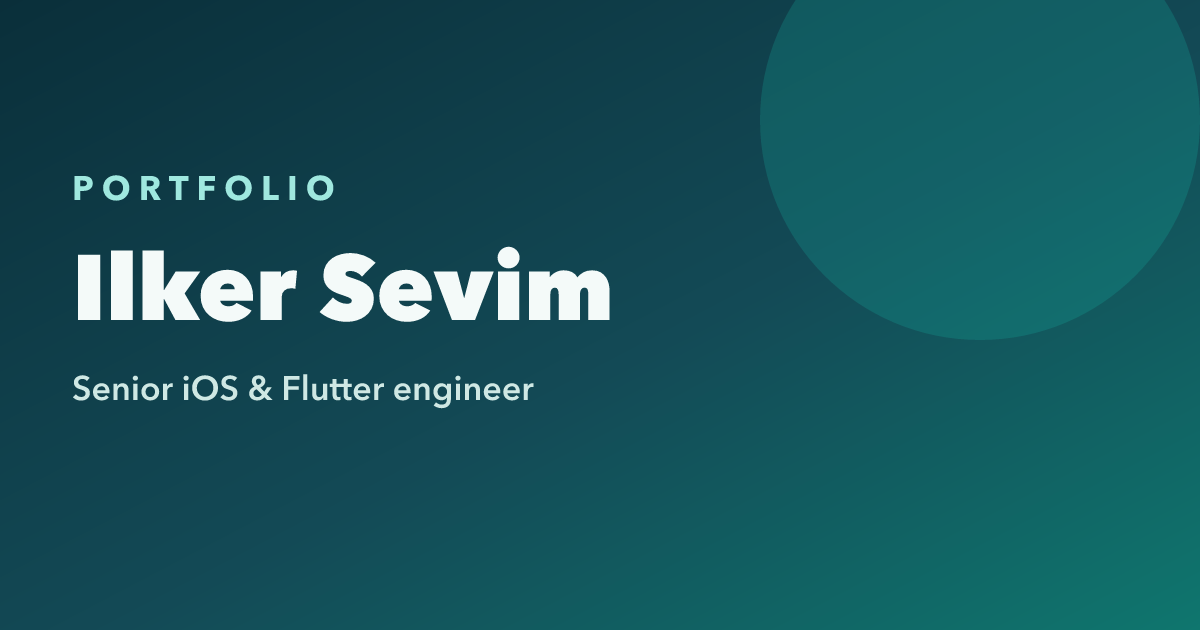
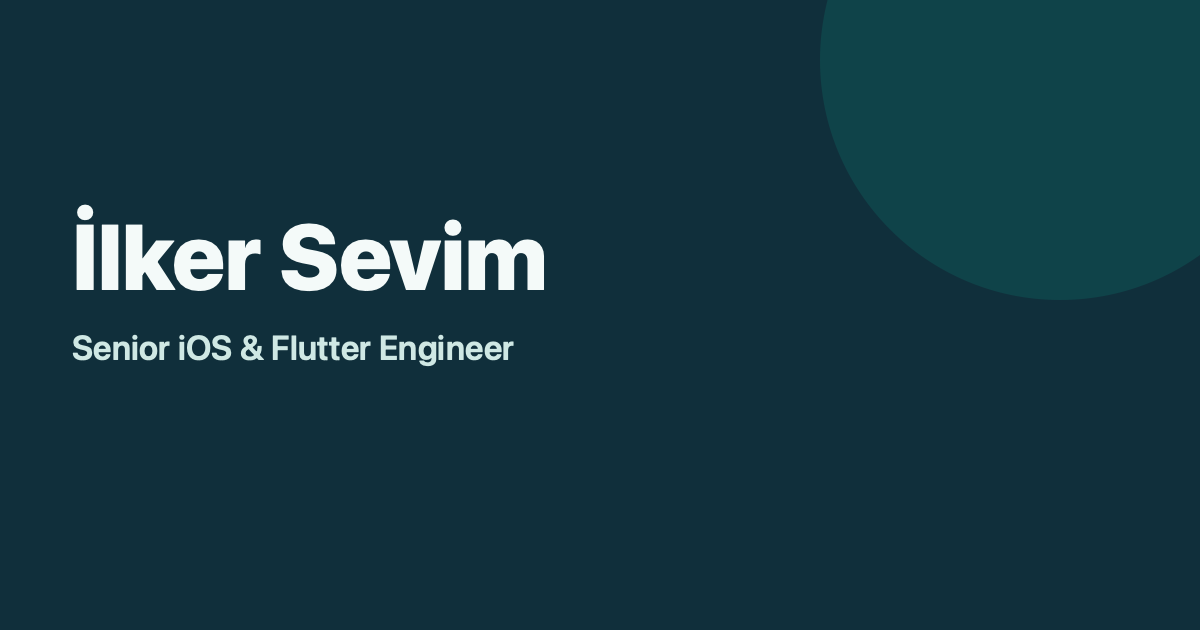
fix: tighten final portfolio craft and SEO assets
Trim hero availability (kept in About), compress the portrait, regenerate OG/favicon to match ink branding, add Person JSON-LD image, and drop unused site.ts.

diff --git a/src/components/Hero.tsx b/src/components/Hero.tsx
@@ -19,18 +19,13 @@ export function Hero() {
               Get in touch
             </a>
           </div>
-          <p className={styles.availability}>
-            Istanbul, Türkiye · Available immediately
-            <br />
-            Remote from Türkiye · Full-time &amp; contract
-          </p>
         </div>
         <img
           className={styles.portrait}
           src={import.meta.env.BASE_URL + 'ilker-sevim.jpg'}
           alt="Portrait of İlker Sevim"
-          width="961"
-          height="1280"
+          width="720"
+          height="959"
           fetchPriority="high"
           decoding="async"
         />

diff --git a/src/components/Hero.module.css b/src/components/Hero.module.css
@@ -40,16 +40,10 @@
   flex-wrap: wrap;
   gap: 1rem;
 }
-.availability {
-  margin: 1.75rem 0 0;
-  color: var(--muted);
-  font-size: 0.9375rem;
-  line-height: 1.8;
-}
 .portrait {
   width: 320px;
   height: auto;
-  aspect-ratio: 961 / 1280;
+  aspect-ratio: 720 / 959;
   border-radius: 8px;
 }
 @media (max-width: 850px) {

diff --git a/index.html b/index.html
@@ -69,6 +69,7 @@
           "addressLocality": "Istanbul",
           "addressCountry": "TR"
         },
+        "image": "https://redjadet.github.io/react-web-portfolio/ilker-sevim.jpg",
         "sameAs": [
           "https://github.com/redjadet",
           "https://www.linkedin.com/in/ilker-sevim-95020820/"
